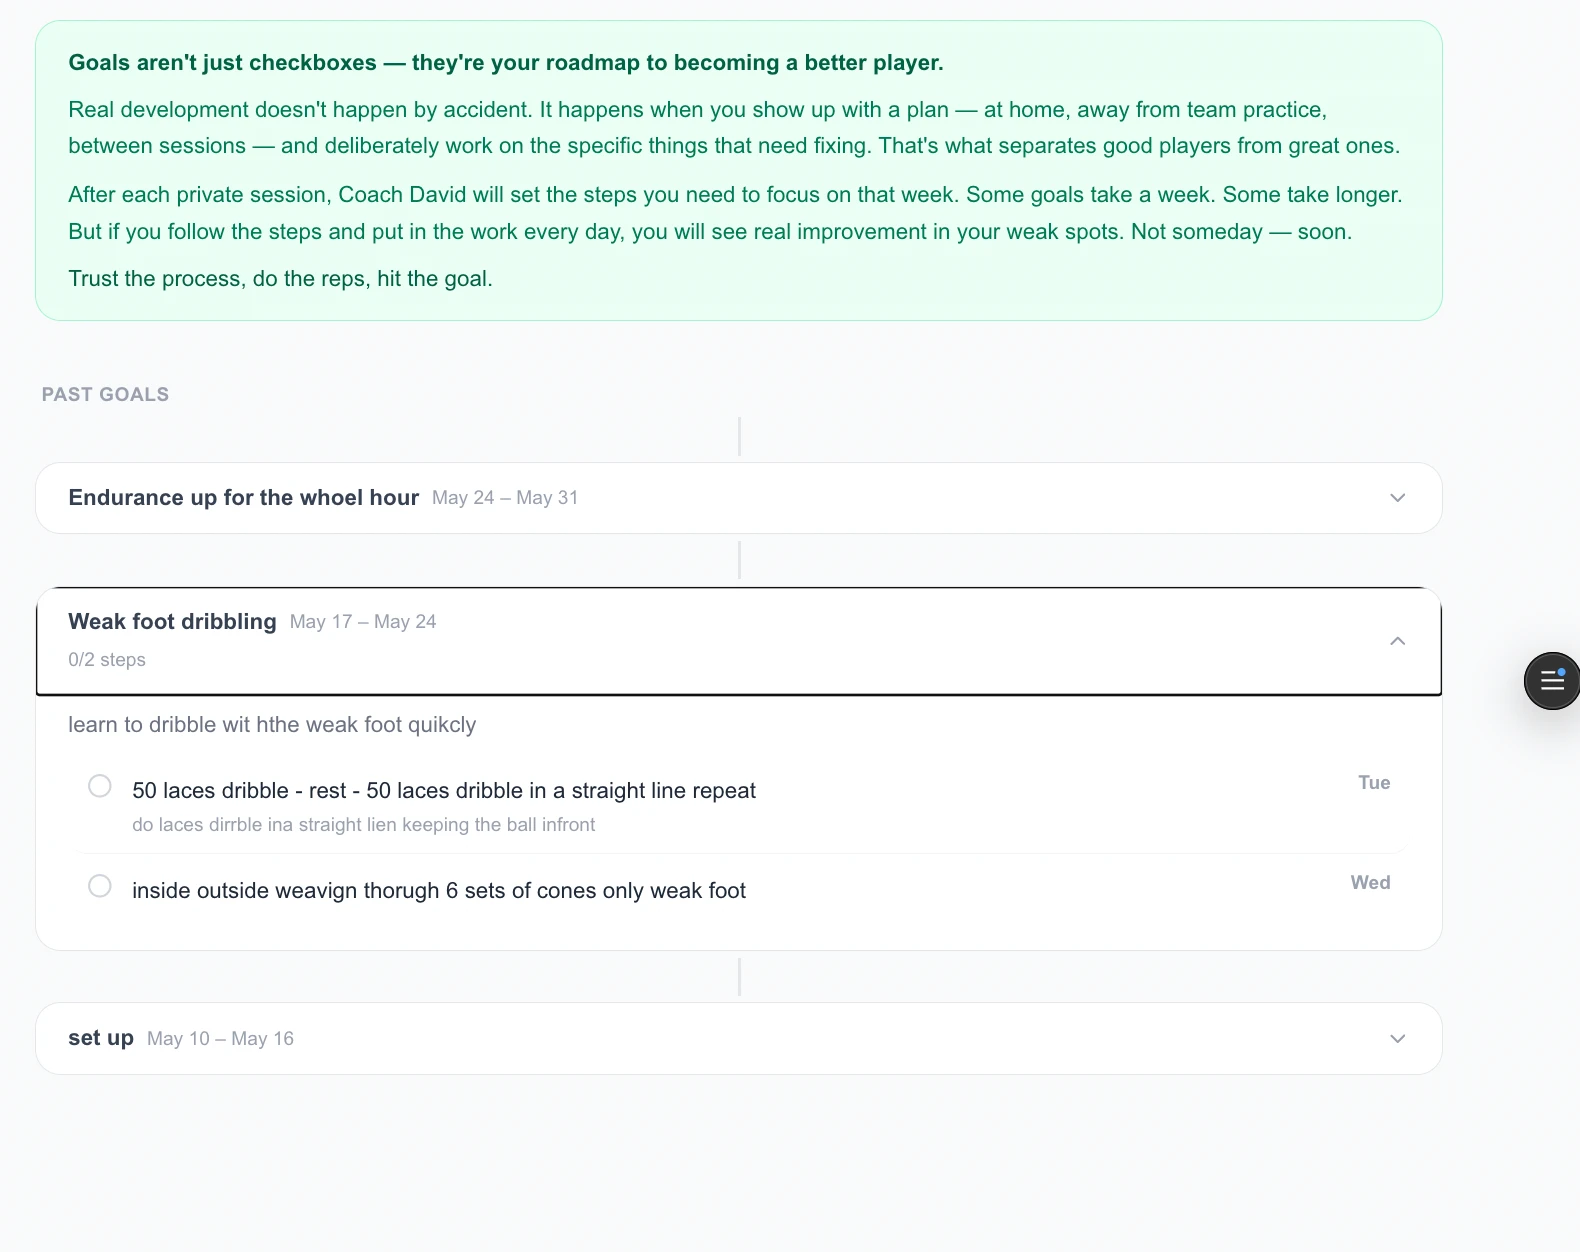
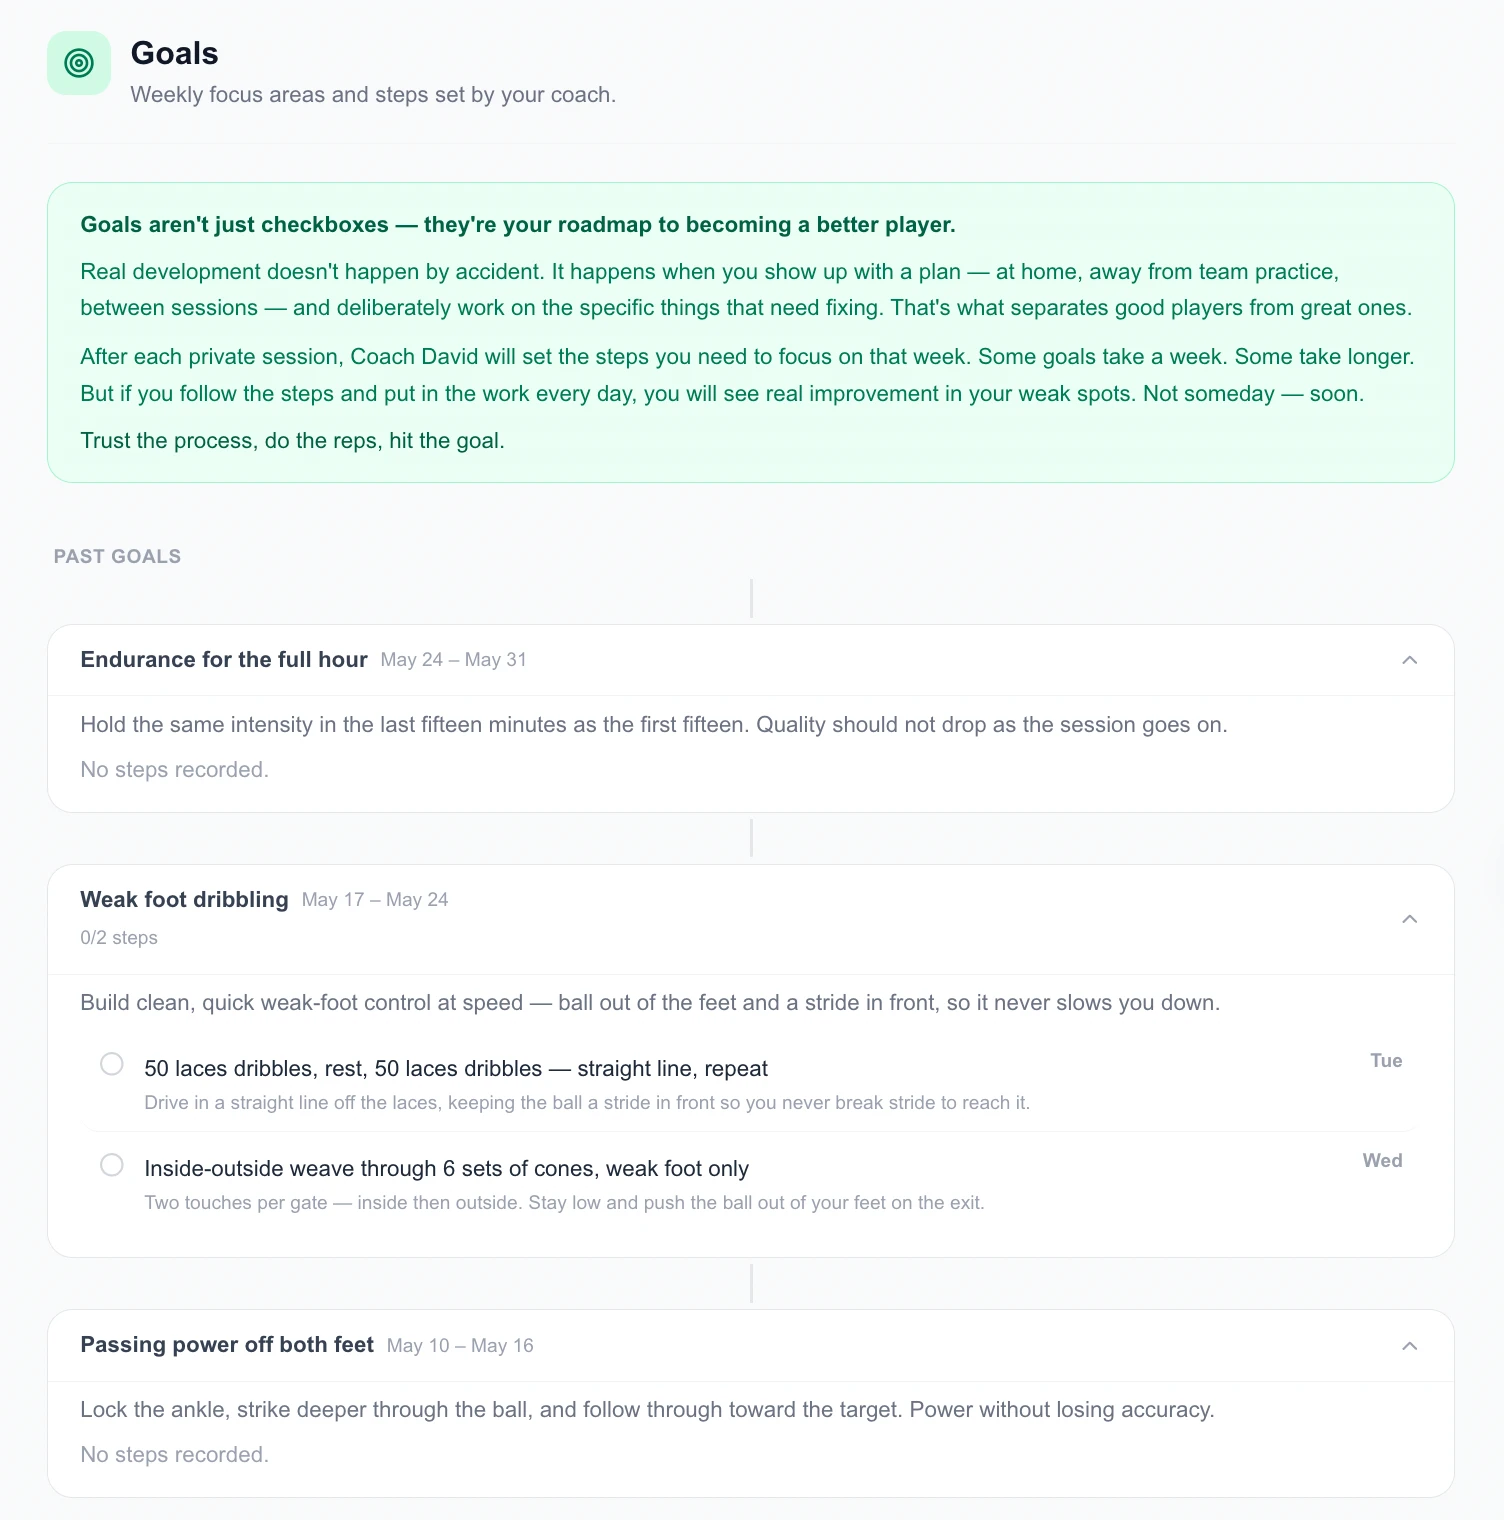
Update the Goals screenshot with the cleaned-up goal copy
Replaces the dashboard Goals screenshot after rewriting the demo goals
and steps in the database. Softens the accompanying copy, since not
every period goal is broken into steps.

diff --git a/app/components/sections/PlayerDashboardSection.tsx b/app/components/sections/PlayerDashboardSection.tsx
@@ -55,7 +55,7 @@ const screens: Screen[] = [
   {
     title: "What to work on before next session",
     subtitle: "Goals",
-    body: "Each period goal comes with the actual steps to do it, assigned to days. Players tick them off as they go, and both the current goal and every past one stay on the record.",
+    body: "A period goal can be broken into the actual steps to do it, each assigned to a day. Players tick them off as they go, and both the current goal and every past one stay on the record.",
     bullets: [
       "One clear focus at a time, with a start and end date",
       "Specific steps, assigned to specific days",
